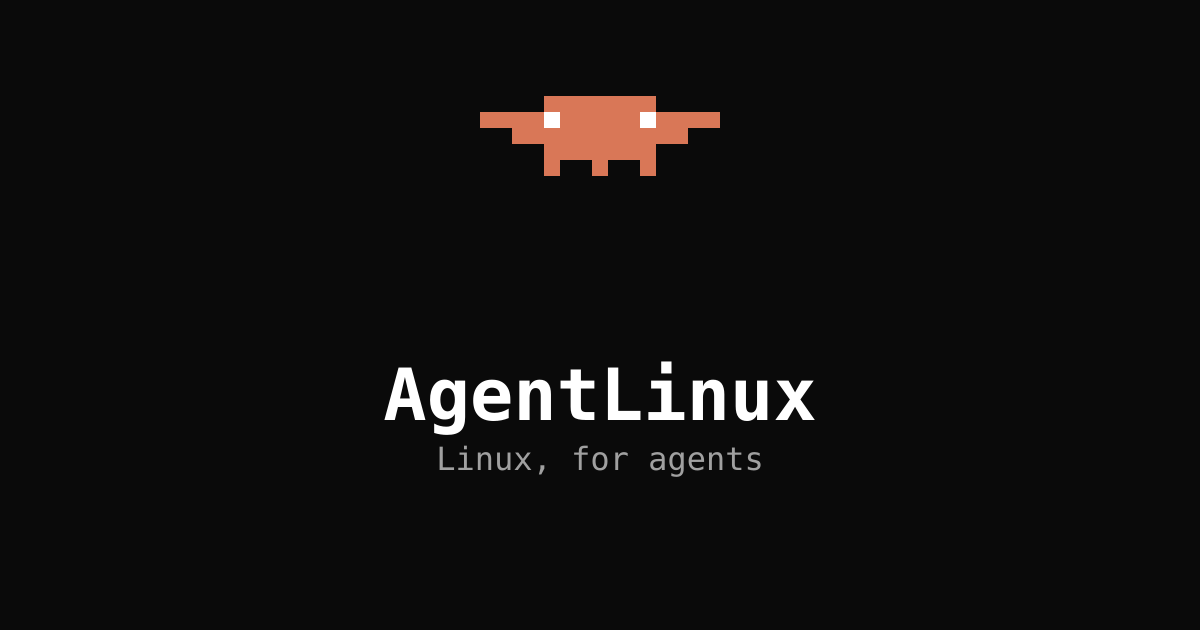
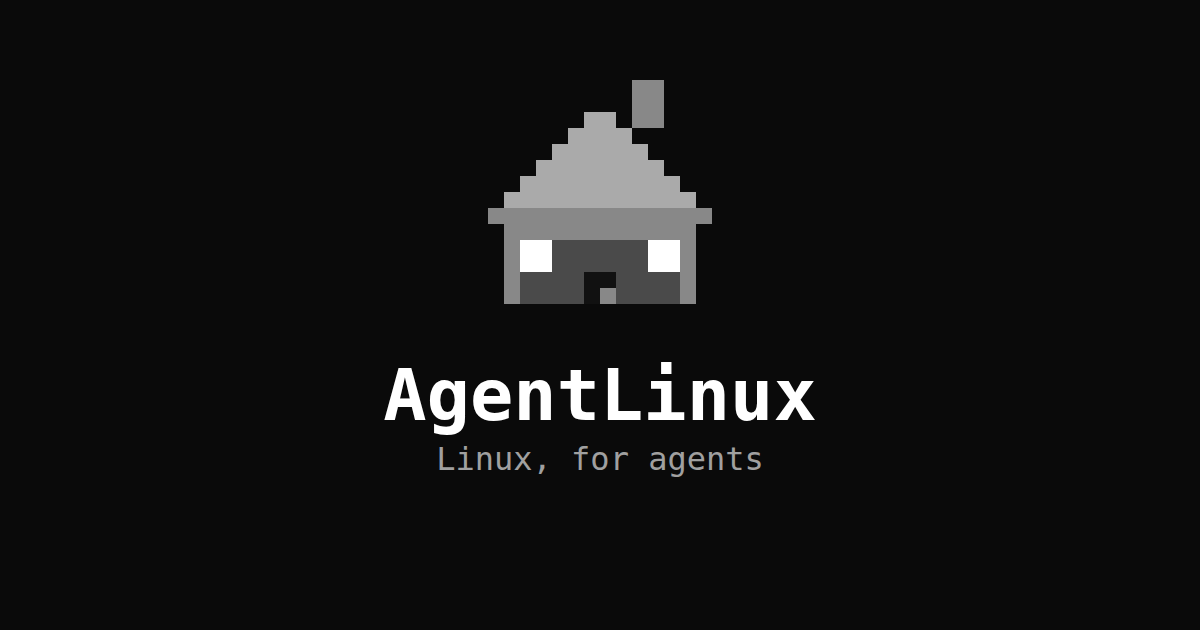
Make the house the mascot; keep Clawd as hero set dressing (AL-146) (#63)
* feat(site): replace the crab mascot with the pixel-art house (AL-146)

The mascot was a terracotta pixel-art crab named "Clawd" drawn in #D97757 —
Anthropic's brand terracotta beside a homophone of "Claude". As the face of
agentlinux.org that reads as trading on Claude Code's identity rather than as
an independent mark.

The house was already in the same artwork and already carries the product's
story ("I need my own space, not a corner of someone else's"), so promote it
to sole mascot:

- house-mascot.svg (was crab-mascot.svg): the house alone on a horizon line,
  re-centred in a 24x17 viewBox with the crab colour classes dropped
- favicon.svg: the same motif on a 16-unit grid
- og-image.svg + regenerated og-image.png: house at scale(16), centred on x=600

Geometry matches deck/make-house.js, so the site and deck stay visually
consistent without coupling their builds.

Claude-Session: https://claude.ai/code/session_01LWYwHbFMUkbBgxdTpFsLVw

* feat(site): point the hero at the house mascot (AL-146)

Update the src and alt, and resize .hero-mascot (base rule and the <=640px
media query) from the old 2:1 crab-and-house frame to the house's 24:17 aspect
so the pixel art is not stretched.

Claude-Session: https://claude.ai/code/session_01LWYwHbFMUkbBgxdTpFsLVw

* docs: retire the crab from the docs and the brand system (AL-146)

- README + ADR-013: the trademark reservation now names the house mascot
- deck/brand-style.md: drop the crab character from the motif section and
[…]

diff --git a/site/index.html b/site/index.html
@@ -650,7 +650,7 @@
 
   <section id="hero" class="full-height">
     <div class="section-container">
-      <img src="assets/crab-mascot.svg" alt="AgentLinux crab mascot" class="hero-mascot">
+      <img src="assets/hero-scene.svg" alt="Pixel-art scene: a small crab arriving at the AgentLinux house" class="hero-mascot">
       <h1 class="hero-title">AgentLinux</h1>
       <p class="hero-tagline">Linux, for agents</p>
       <p class="hero-value-prop">Linux that gives coding agents a stable place to run — without you having to set it up.</p>

diff --git a/deck/brand-style.md b/deck/brand-style.md
@@ -12,9 +12,13 @@ extracted_via: manual — from agentlinux.org + the Agent-Linux repo (site/asset
 Terminal-native and unapologetically technical. A near-black canvas, monospace type
 everywhere, and a single white accent — it reads like a well-lit shell. Flat and quiet:
 no gradients, no drop shadows, no decorative color, no accent stripes. Hierarchy comes from
-size, weight, and whitespace, not hue. The one reserve of warmth is the pixel-art mascot
-(a terracotta crab, "Clawd", and a little house), used sparingly. Mood: precise, calm,
-confident — developer-tool seriousness with dry wit.
+size, weight, and whitespace, not hue. The one moment of character is the pixel-art house
+mascot, used sparingly. Mood: precise, calm, confident — developer-tool seriousness with
+dry wit.
+
+The website hero additionally runs a one-off illustration — a small terracotta crab arriving
+at the house. That crab is scene-only set dressing, not the mark: it never appears in the
+favicon, the OG card, or the deck.
 
 ## Colors
 
@@ -28,13 +32,13 @@ confident — developer-tool seriousness with dry wit.
 | Text — secondary | `#A8A8A8` | captions, secondary copy (~7:1 on bg) |
 | Text — body | `#E0E0E0` | body text (~13:1 on bg) |
 | Accent (one only) | `#FFFFFF` | pure white — the single emphasis color |
-| Signature warm | `#D97757` | terracotta from the crab mascot; mascot-only, optional |
+| Hero-scene warm | `#D97757` | terracotta; the website hero crab only — never in the deck |
 
 **Color scheme:** dark
-**Accent rule:** one accent per surface, and it is **white**. Monochrome by default —
-never introduce a second hue for emphasis; use weight/size/whitespace and the white
-highlight. `#D97757` belongs to the mascot art only; the core system is strictly monochrome.
-Split roughly 60-30-10 (background / grays / white).
+**Accent rule:** one accent per surface, and it is **white**. The system is strictly
+monochrome, mascot included — never introduce a hue for emphasis; use weight/size/whitespace
+and the white highlight. `#D97757` is confined to the website hero illustration; it is not
+available to the deck or to any mark. Split roughly 60-30-10 (background / grays / white).
 
 ## Typography
 
@@ -81,11 +85,11 @@ labels are UPPERCASE with wide letter-spacing, often prefixed `// ` like a code 
 ## Motif
 
 Chunky **pixel art** (`shape-rendering: crispEdges`). A little **house** = an environment
-that's already set up and maintained for you (rendered grayscale, extracted from
-`site/assets/crab-mascot.svg`). The **crab "Clawd"** (terracotta `#D97757`) is the character
-mascot. Commit to **one** motif and repeat it sparingly — a cover, a hero moment, a small
-footer mark — never on every element. A blinking block cursor (`█`) and `$`/`#` terminal
-prompts are on-brand accents.
+that's already set up and maintained for you (grayscale, same geometry as the house in
+`site/assets/hero-scene.svg`). It is the sole mascot and the only motif that carries the
+mark — the favicon and the OG card are the house alone. Repeat it sparingly — a cover, a
+hero moment, a small footer mark — never on every element. A blinking block cursor (`█`)
+and `$`/`#` terminal prompts are on-brand accents.
 
 ## Quick Reference (for Claude)
 

diff --git a/.planning/STATE.md b/.planning/STATE.md
@@ -7,8 +7,8 @@ current_phase_name: Full Validation Gate
 status: complete
 stopped_at: context exhaustion at 75% (2026-07-31)
 last_updated: "2026-07-31T22:31:58.271Z"
-last_activity: 2026-07-28
-last_activity_desc: Plan 56-02 complete (list/pin/adopt verbs + guard/catalog/sentinel/cache adapters)
+last_activity: 2026-08-04
+last_activity_desc: "Quick task 260804-lth complete (AL-146): crab mascot retired for the pixel-art house across site, docs, and brand"
 progress:
   total_phases: 7
   completed_phases: 7
@@ -452,6 +452,7 @@ Historical (v0.3.6): phases 18–22 were RESERVED for the parallel in-flight v0.
 | 260525-nv0 | Test-secrets infrastructure — `.env.local` + GH repo secrets + bats `require_secret`; SECRET_ALLOWLIST in `tests/docker/run.sh`; step-level nightly-qemu env; internals doc; smoke test | 2026-05-25 | AL-53 | 181996b |
 | 260526-84p | Interactive-CLI bats helpers (`expect`-based) + AGT-02d behavioral test; QEMU SendEnv/AcceptEnv forwarding; `docs/internals/test-interactive.md` | 2026-05-26 | AL-54 | d7bf9ee |
 | 260630-gn4 | Configurable target install username (`--user` / `AGENTLINUX_USER` / greenfield interactive prompt; default `agent`) — hardened validation (reject root/reserved/uid<1000) + resolved user threaded through all provisioners, sudoers, PATH wiring, and the catalog CLI guard + dispatch + upgrade probe; closes the AL-59 alt-user hollow-install bug. `--validate`: plan-checked, 3 review rounds, verified; new `tests/bats/23-install-user.bats` (INST-07). | 2026-06-30 | AL-50 | d59dcb7 |
+| 260804-lth | Make the pixel-art house the sole mascot; demote the crab ("Clawd", `#D97757` — drawn as Claude Code's mascot) to hero set dressing. The mark is now house-only: favicon and regenerated `og-image.svg`/`.png` were crab-only and carried the borrowed identity everywhere the site was linked. The hero illustration keeps the crab as a scene character (`hero-scene.svg`, was `crab-mascot.svg`). Trademark wording in README + ADR-013 reserves the house mascot only; `deck/brand-style.md` scopes `#D97757` to the hero illustration and bars it from the deck and any mark. House geometry is a pure translation of `deck/make-house.js`, so site and deck stay consistent without coupling builds. | 2026-08-04 | AL-146 | 5f265b9 |
 
 _Quick-task working directories are not retained on `master` (AL-63 — see the `planning-workflow` skill); this table is the durable record. Full PLAN/SUMMARY detail for each task lives in git history and the linked Jira issue._
 

diff --git a/deck/README.md b/deck/README.md
@@ -2,7 +2,7 @@
 
 The reusable **design code** for AgentLinux presentations, plus the generator that renders it
 to slides. Strict-monochrome, terminal-styled: JetBrains Mono / Consolas, a near-black canvas,
-one white accent, and the pixel-art house from [`../site/assets/crab-mascot.svg`](../site/assets/crab-mascot.svg).
+one white accent, and the pixel-art house from [`../site/assets/hero-scene.svg`](../site/assets/hero-scene.svg).
 
 - **[`brand-style.md`](brand-style.md)** — the reusable brand DNA in
   [power-design](https://github.com/ItsssssJack/power-design) format (colors, type, spacing,
@@ -46,7 +46,7 @@ See `brand-style.md` for the full spec. In short:
   borders `#2A2A2A`; the single accent per slide is pure white `#FFFFFF`.
 - **Type** — Consolas / JetBrains Mono (monospace), one modular scale (base 24, ratio 1.25),
   presenter-mode sparseness (one idea/slide).
-- **Motif** — the pixel-art house (grayscale, from `../site/assets/crab-mascot.svg`) recurs on the
+- **Motif** — the pixel-art house (grayscale, from `../site/assets/hero-scene.svg`) recurs on the
   cover, the solution slide, the close, and as the footer mark.
 - **Restraint** — no accent stripes, under-title rules, gradients, or shadows; structure comes
   from tint panels and whitespace. `footer()` auto-numbers slides — set `TOTAL` when adding/removing.

diff --git a/docs/decisions/013-license-mit.md b/docs/decisions/013-license-mit.md
@@ -50,7 +50,7 @@ MIT is explicitly non-copyleft. Downstream consumers may distribute AgentLinux (
 
 ### Trademark posture
 
-The "AgentLinux" name and the crab mascot SVG are **not** licensed under MIT. They remain controlled by the project maintainer for naming-clarity reasons (forks should pick their own name to avoid implying maintainer endorsement). This is a future ADR if/when forks materially exist; for v0.4.0 we note it here and add a one-line clarification in CONTRIBUTING.md.
+The "AgentLinux" name and the house mascot SVG are **not** licensed under MIT. They remain controlled by the project maintainer for naming-clarity reasons (forks should pick their own name to avoid implying maintainer endorsement). This is a future ADR if/when forks materially exist; for v0.4.0 we note it here and add a one-line clarification in CONTRIBUTING.md.
 
 ### Reversibility
 

diff --git a/AGENTS.md b/AGENTS.md
@@ -37,7 +37,7 @@ under `packaging/`, never under `site/`.
 - `scripts/` — release build (`build-release.sh`), repo gates (`check-*.sh`), mutation gate
 - `site/` — everything served at agentlinux.org; adding a page or asset needs no CI edit
 - `deck/` — `brand-style.md` (the reusable brand DNA) plus the pptxgenjs generator.
-  Its house motif was hand-derived from `site/assets/crab-mascot.svg`, but the
+  Its house motif shares geometry with `site/assets/hero-scene.svg`, but the
   build reads only its own committed `deck-house.png` — editing the SVG does not
   change the deck.
 - `docs/` — reference documentation (`HARNESS.md`, `codex.md`, `decisions/`, `research/`, `internals/`)

diff --git a/README.md b/README.md
@@ -111,5 +111,5 @@ Codex in this repo is covered in [docs/codex.md](docs/codex.md).
 
 ## License
 
-[MIT](LICENSE). The "AgentLinux" name and crab mascot are not covered by the
+[MIT](LICENSE). The "AgentLinux" name and house mascot are not covered by the
 license — forks should pick their own name so they don't imply endorsement.
